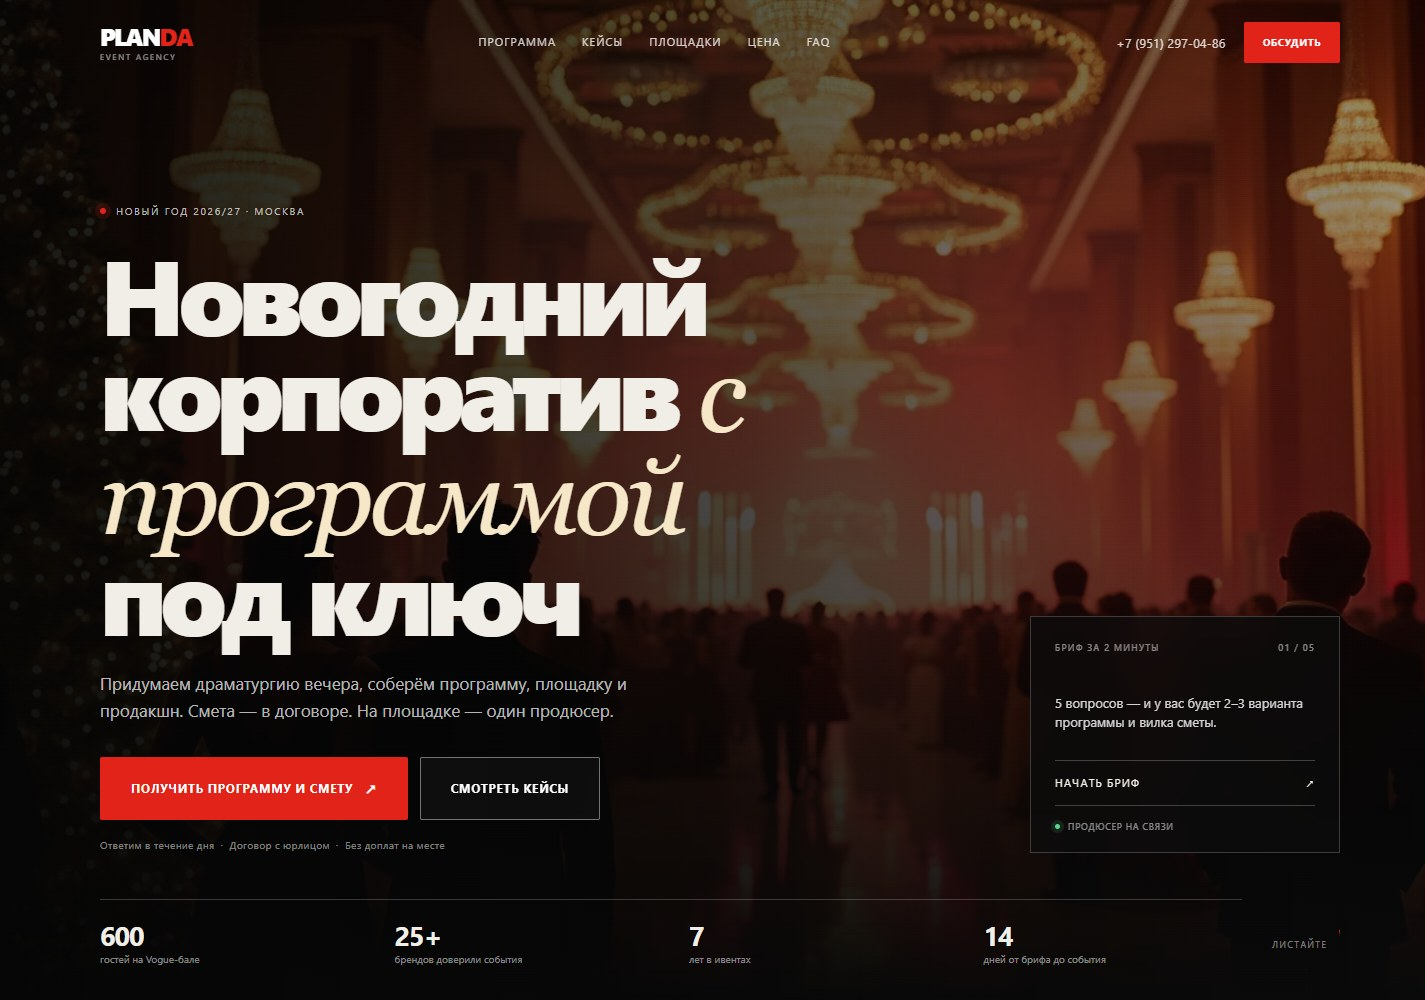
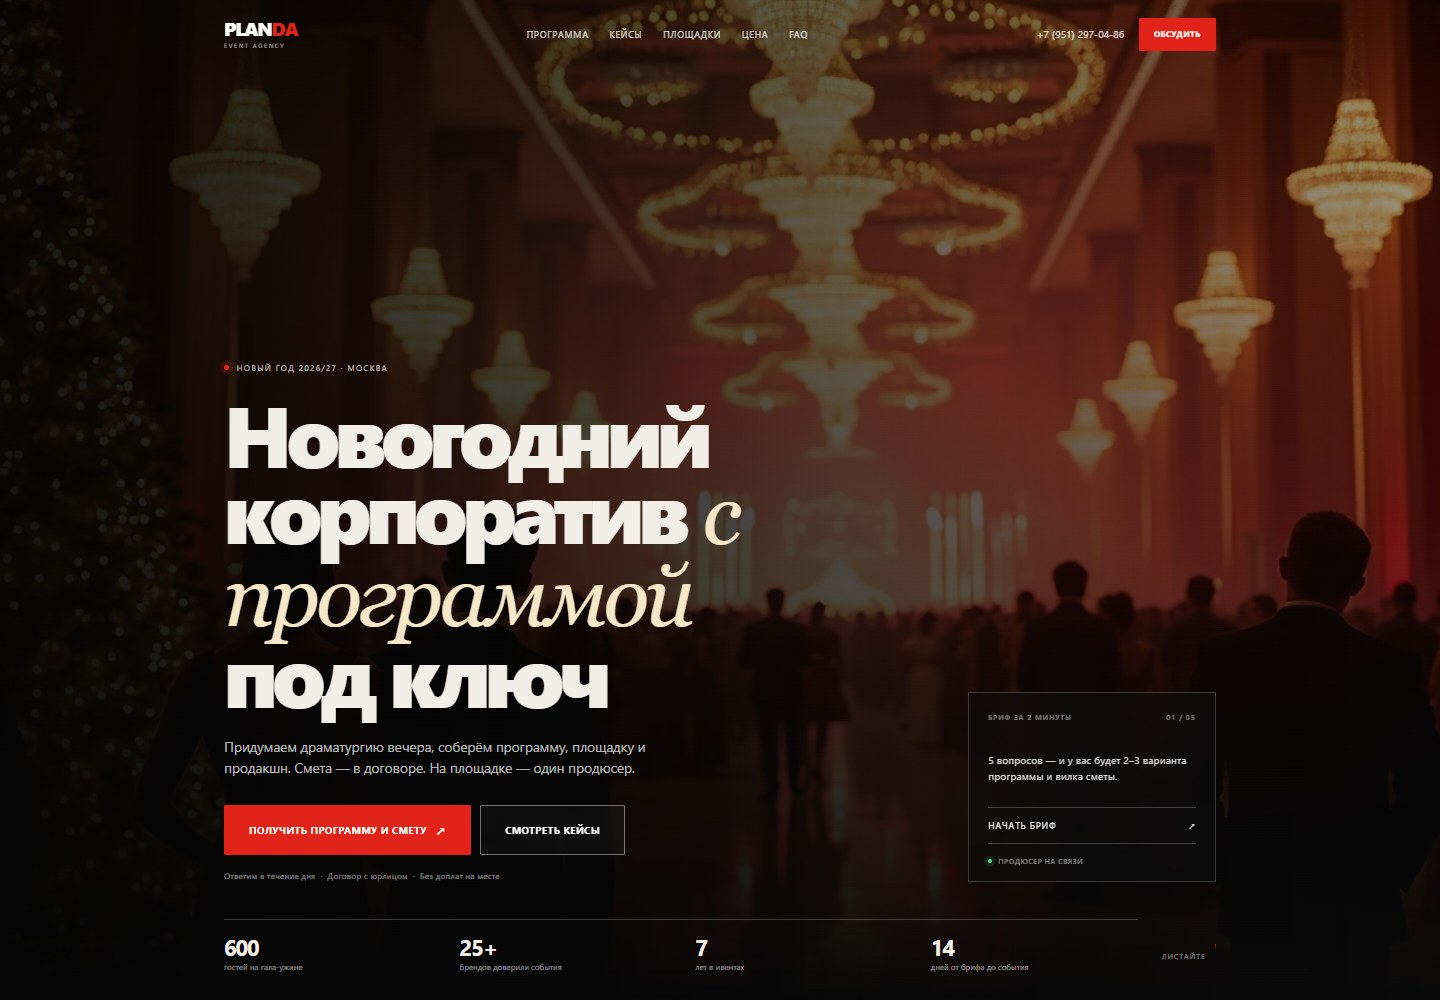
content: neutralize case study venue references

diff --git a/index.html b/index.html
@@ -8,7 +8,7 @@
   <meta name="theme-color" content="#0b0b0b">
   <link rel="icon" href="assets/favicon.svg" type="image/svg+xml">
   <meta property="og:title" content="Новогодний корпоратив с программой под ключ — PLANDA">
-  <meta property="og:description" content="Программа, площадка, артисты и продакшн. Смета в договоре. 600 гостей на Vogue-бале, 25+ брендов.">
+  <meta property="og:description" content="Программа, площадка, артисты и продакшн. Смета в договоре. 600 гостей на новогоднем гала-ужине, 25+ брендов.">
   <meta property="og:type" content="website">
   <meta property="og:image" content="https://airdriverv-cloud.github.io/planda-ny-landing/assets/img/hero.jpg">
   <meta name="twitter:card" content="summary_large_image">
@@ -69,7 +69,7 @@
 
       <div class="container hero__bottom">
         <div class="hero__stats">
-          <div><strong>600</strong><span>гостей на Vogue-бале</span></div>
+          <div><strong>600</strong><span>гостей на гала-ужине</span></div>
           <div><strong>25+</strong><span>брендов доверили события</span></div>
           <div><strong>7</strong><span>лет в ивентах</span></div>
           <div><strong>14</strong><span>дней от брифа до события</span></div>
@@ -261,10 +261,10 @@
         </div>
         <div class="cases">
           <article class="case case--wide">
-            <div class="case__media"><img src="assets/img/case-gala.jpg" alt="Гала-ужин Vogue Ball в Большом театре" decoding="async" width="1600" height="900"></div>
+            <div class="case__media"><img src="assets/img/case-gala.jpg" alt="Гала-ужин в историческом зале" decoding="async" width="1600" height="900"></div>
             <div class="case__body">
               <div class="case__tag">Гала-ужин · 600 гостей</div>
-              <h3>Vogue Ball<br>Большой театр</h3>
+              <h3>Новогодний<br>гала-ужин</h3>
               <p>Церемония, сцена, свет и ужин в историческом зале. Задача — статус и ощущение «мы здесь не случайно».</p>
               <div class="case__result"><span>600</span> гостей · <span>1</span> вечер · <span>100%</span> закрытая площадка</div>
             </div>
@@ -400,7 +400,7 @@
             <div class="section__label">06 / Площадки</div>
             <h2 class="section__title">Площадки, которые<br><em>уже работают зимой</em></h2>
           </div>
-          <p class="section__lead">Шесть проверенных форматов — от лофта до театра. Покажем фото, вместимость и цену под ваш сценарий.</p>
+          <p class="section__lead">Шесть проверенных форматов — от лофта до исторического зала. Покажем фото, вместимость и цену под ваш сценарий.</p>
         </div>
         <div class="venues">
           <article class="venue">
@@ -416,7 +416,7 @@
             <div class="venue__body"><div class="venue__top"><h3>Театр · Тверская</h3><span>150–400</span></div><p>Сцена, кулисы, исторические интерьеры. Для постановки.</p><div class="venue__foot"><span>от 900 000 ₽</span><button data-quiz>Подобрать ↗</button></div></div>
           </article>
           <article class="venue">
-            <div class="venue__media"><img src="assets/img/hero.jpg" alt="Большой банкетный зал с новогодней ёлкой" decoding="async" width="1600" height="900"></div>
+            <div class="venue__media"><img src="assets/img/hero.jpg" alt="Парадный банкетный зал с новогодней ёлкой" decoding="async" width="1600" height="900"></div>
             <div class="venue__body"><div class="venue__top"><h3>Палас · Царицыно</h3><span>100–300</span></div><p>Закрытый зал, парк, парковка, отдельный вход.</p><div class="venue__foot"><span>от 600 000 ₽</span><button data-quiz>Подобрать ↗</button></div></div>
           </article>
           <article class="venue">
